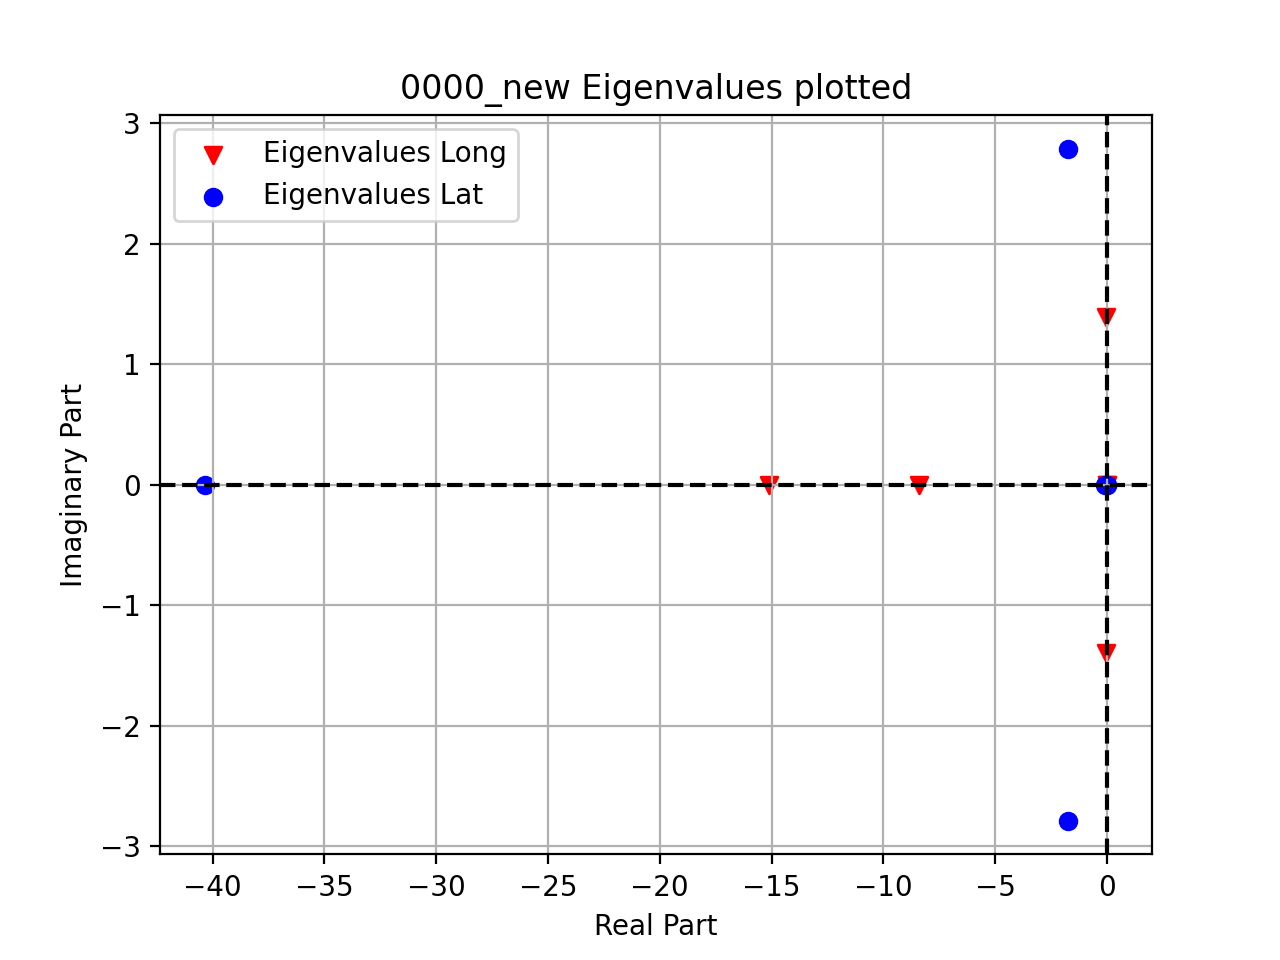
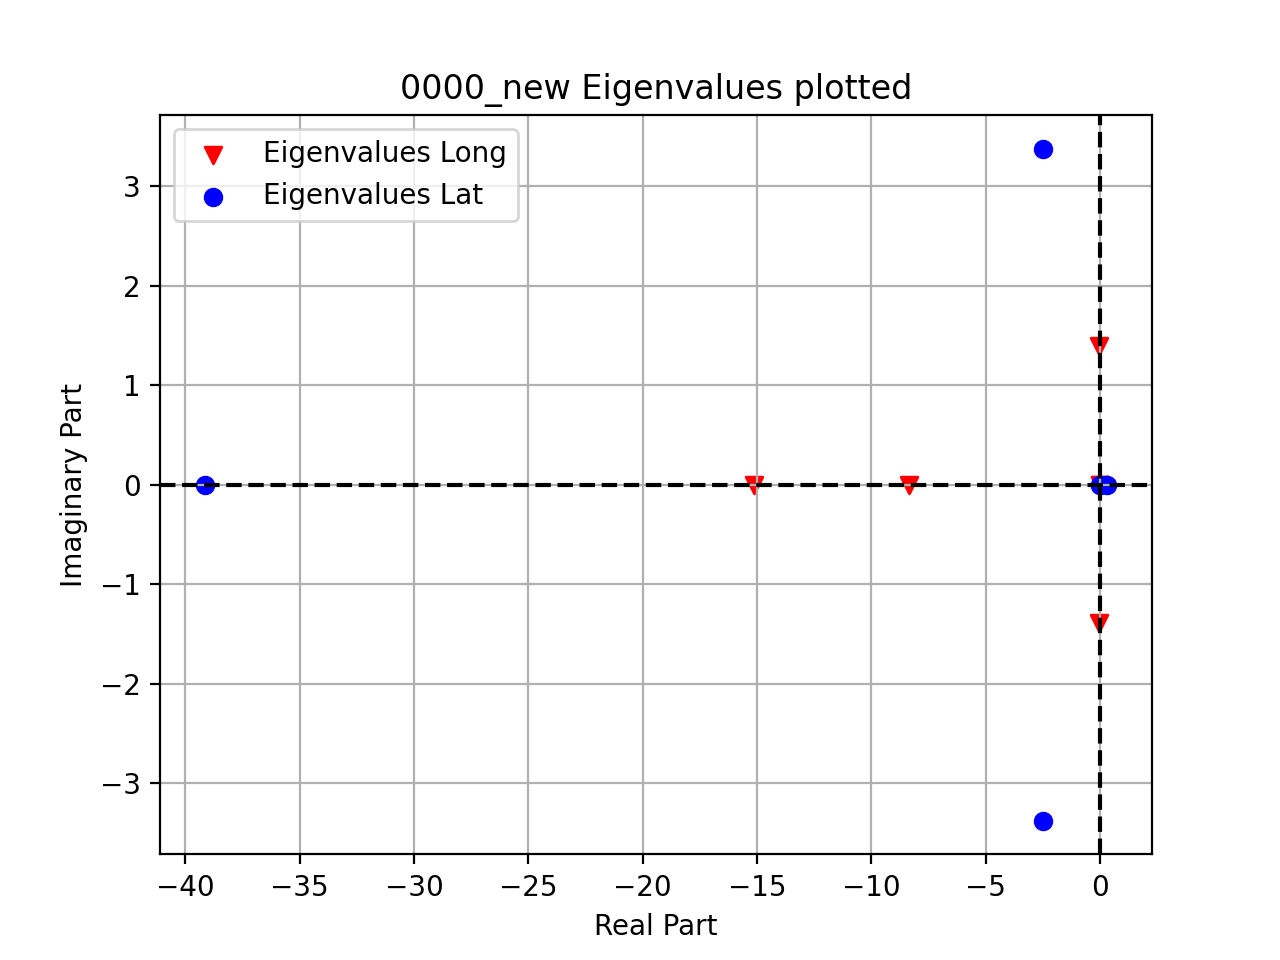
code working for project

diff --git a/Dynamics of Atmospheric Flight/Project_PartIV/6917.py b/Dynamics of Atmospheric Flight/Project_PartIV/6917.py
@@ -66,16 +66,26 @@ Air_Density = J_vals['analysis']['density[slugs/ft^3]']
 
 #################  Aerodynamic Properties  #################################
 
+#Need to change,
+# CY_pbar(done), CD_qbar(done), Cl_rbar(done), Cn_pbar
+
+#Angle of attack
+alpha = J_vals['initial']['state']['alpha[deg]'] *(np.pi/180)
+
 #CL values
 CL_0 = J_vals['aerodynamics']['CL']['0']
 CL_alpha = J_vals['aerodynamics']['CL']['alpha']
 CL_qbar = J_vals['aerodynamics']['CL']['qbar']
 CL_alpha_hat = J_vals['aerodynamics']['CL']['alpha_hat']
+CL_1 = CL_0 + CL_alpha*alpha
 
 #CY values
 CY_beta = J_vals['aerodynamics']['CS']['beta']
-CY_pbar = J_vals['aerodynamics']['CS']['pbar']
+#CY_pbar = J_vals['aerodynamics']['CS']['pbar']
 CY_rbar = J_vals['aerodynamics']['CS']['rbar']
+#Changed for part V, original is now commented out
+#new Cy_pbar
+CY_pbar = J_vals['aerodynamics']['CS']['Lpbar']*CL_1 + J_vals['aerodynamics']['CS']['pbar']
 
 #CD values
 CD_L0 = J_vals['aerodynamics']['CD']['L0']
@@ -83,12 +93,18 @@ CD_L1 = J_vals['aerodynamics']['CD']['L']
 CD_L2 = J_vals['aerodynamics']['CD']['L2']
 CD_0 = CD_L0 + CD_L1*CL_0+CD_L2*CL_0**2
 CD_alpha = CD_L1*CL_alpha + 2*CD_L2*CL_0*CL_alpha
-CD_qbar = J_vals['aerodynamics']['CD']['qbar']
+#CD_qbar = J_vals['aerodynamics']['CD']['qbar']
+#New CD qbar
+CD_qbar = J_vals['aerodynamics']['CD']['qbar'] + J_vals['aerodynamics']['CD']['Lqbar']*CL_1 + J_vals['aerodynamics']['CD']['L2qbar']*CL_1**2
+
 
 #Cl Values
 Cl_beta = J_vals['aerodynamics']['Cl']['beta']
 Cl_pbar = J_vals['aerodynamics']['Cl']['pbar']
-Cl_rbar = J_vals['aerodynamics']['Cl']['rbar']
+#Cl_rbar = J_vals['aerodynamics']['Cl']['rbar']
+#New Cl_rbar
+Cl_rbar = J_vals['aerodynamics']['Cl']['Lrbar']*CL_1 + J_vals['aerodynamics']['Cl']['rbar']
+
 
 #Cm Values
 Cm_0 = J_vals['aerodynamics']['Cm']['0']
@@ -98,8 +114,10 @@ Cm_alpha_hat = J_vals['aerodynamics']['Cm']['alpha_hat']
 
 #Cn values
 Cn_beta = J_vals['aerodynamics']['Cn']['beta']
-Cn_pbar = J_vals['aerodynamics']['Cn']['pbar']
 Cn_rbar = J_vals['aerodynamics']['Cn']['rbar']
+#Cn_pbar = J_vals['aerodynamics']['Cn']['pbar']
+#New Cn_pbar
+Cn_pbar = J_vals['aerodynamics']['Cn']['pbar'] + J_vals['aerodynamics']['Cn']['Lpbar']*CL_1
 
 #################  Solved Variables ############################################
 

diff --git a/Dynamics of Atmospheric Flight/Project_PartIV/6917_Larsen_PartVCode.py b/Dynamics of Atmospheric Flight/Project_PartIV/6917_Larsen_PartVCode.py
@@ -66,16 +66,26 @@ Air_Density = J_vals['analysis']['density[slugs/ft^3]']
 
 #################  Aerodynamic Properties  #################################
 
+#Need to change,
+# CY_pbar(done), CD_qbar(done), Cl_rbar(done), Cn_pbar
+
+#Angle of attack
+alpha = J_vals['initial']['state']['alpha[deg]'] *(np.pi/180)
+
 #CL values
 CL_0 = J_vals['aerodynamics']['CL']['0']
 CL_alpha = J_vals['aerodynamics']['CL']['alpha']
 CL_qbar = J_vals['aerodynamics']['CL']['qbar']
 CL_alpha_hat = J_vals['aerodynamics']['CL']['alpha_hat']
+CL_1 = CL_0 + CL_alpha*alpha
 
 #CY values
 CY_beta = J_vals['aerodynamics']['CS']['beta']
-CY_pbar = J_vals['aerodynamics']['CS']['pbar']
+#CY_pbar = J_vals['aerodynamics']['CS']['pbar']
 CY_rbar = J_vals['aerodynamics']['CS']['rbar']
+#Changed for part V, original is now commented out
+#new Cy_pbar
+CY_pbar = J_vals['aerodynamics']['CS']['Lpbar']*CL_1 + J_vals['aerodynamics']['CS']['pbar']
 
 #CD values
 CD_L0 = J_vals['aerodynamics']['CD']['L0']
@@ -83,12 +93,18 @@ CD_L1 = J_vals['aerodynamics']['CD']['L']
 CD_L2 = J_vals['aerodynamics']['CD']['L2']
 CD_0 = CD_L0 + CD_L1*CL_0+CD_L2*CL_0**2
 CD_alpha = CD_L1*CL_alpha + 2*CD_L2*CL_0*CL_alpha
-CD_qbar = J_vals['aerodynamics']['CD']['qbar']
+#CD_qbar = J_vals['aerodynamics']['CD']['qbar']
+#New CD qbar
+CD_qbar = J_vals['aerodynamics']['CD']['qbar'] + J_vals['aerodynamics']['CD']['Lqbar']*CL_1 + J_vals['aerodynamics']['CD']['L2qbar']*CL_1**2
+
 
 #Cl Values
 Cl_beta = J_vals['aerodynamics']['Cl']['beta']
 Cl_pbar = J_vals['aerodynamics']['Cl']['pbar']
-Cl_rbar = J_vals['aerodynamics']['Cl']['rbar']
+#Cl_rbar = J_vals['aerodynamics']['Cl']['rbar']
+#New Cl_rbar
+Cl_rbar = J_vals['aerodynamics']['Cl']['Lrbar']*CL_1 + J_vals['aerodynamics']['Cl']['rbar']
+
 
 #Cm Values
 Cm_0 = J_vals['aerodynamics']['Cm']['0']
@@ -98,8 +114,10 @@ Cm_alpha_hat = J_vals['aerodynamics']['Cm']['alpha_hat']
 
 #Cn values
 Cn_beta = J_vals['aerodynamics']['Cn']['beta']
-Cn_pbar = J_vals['aerodynamics']['Cn']['pbar']
 Cn_rbar = J_vals['aerodynamics']['Cn']['rbar']
+#Cn_pbar = J_vals['aerodynamics']['Cn']['pbar']
+#New Cn_pbar
+Cn_pbar = J_vals['aerodynamics']['Cn']['pbar'] + J_vals['aerodynamics']['Cn']['Lpbar']*CL_1
 
 #################  Solved Variables ############################################
 
